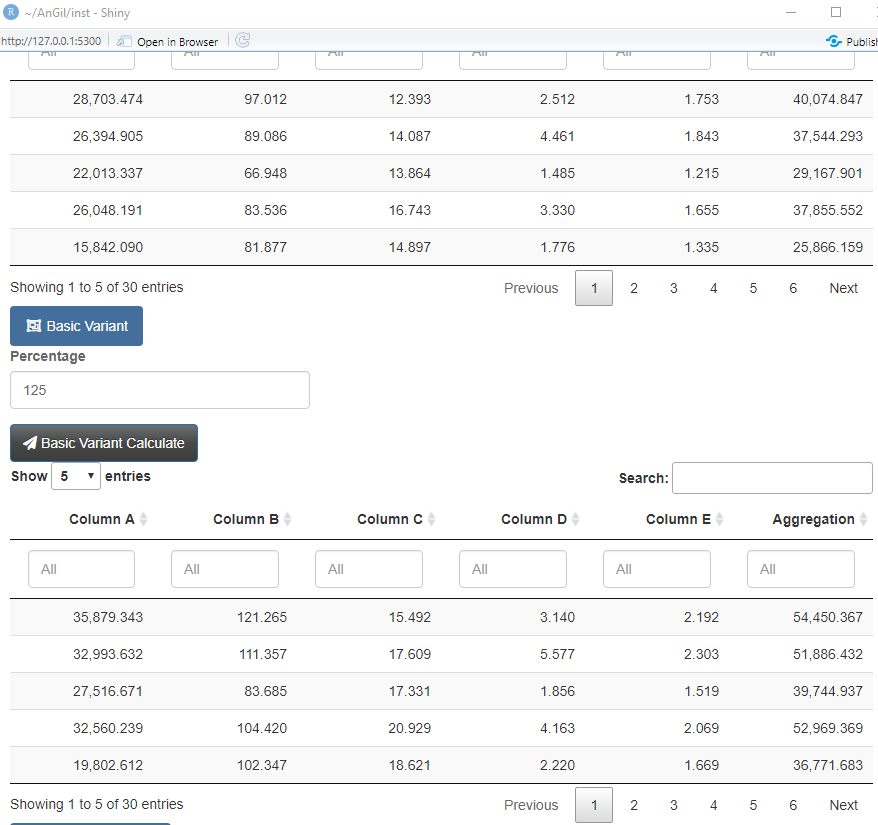
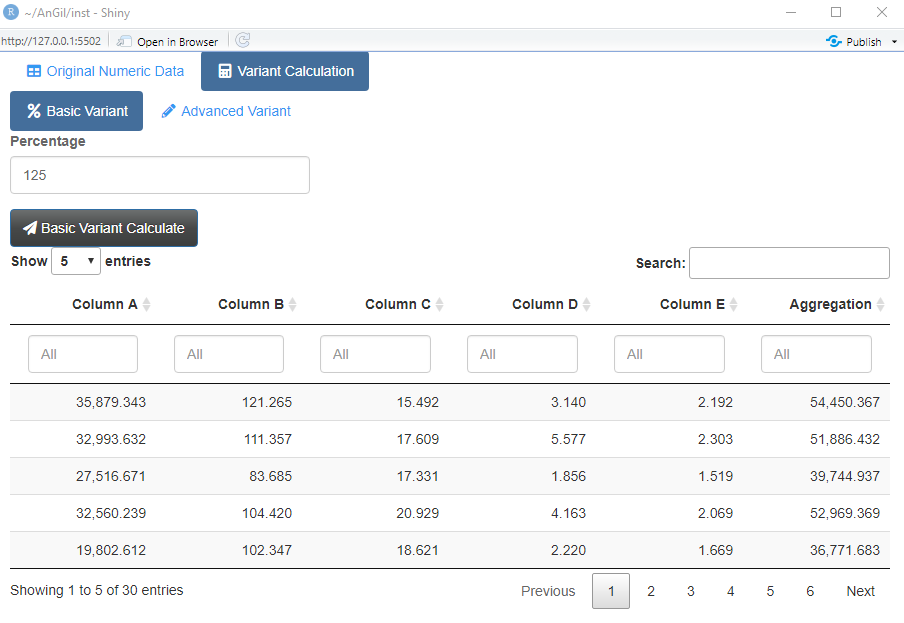
update ui.R and README

diff --git a/README.md b/README.md
@@ -42,7 +42,7 @@ Numeric Data` tab.
 ![](man/figures/original_data.png) At the same time, the `Basic Variant`
 tab and the `Advanced Variant` tab are populated.
 
-![](man/figures/all_tabs.png)
+![](man/figures/variant_tabset.png)
 
 Then, you can enter a percentage figure in `Percentage` field and click
 `Basic Variant Calculation` button. This populates the `basic variant`
